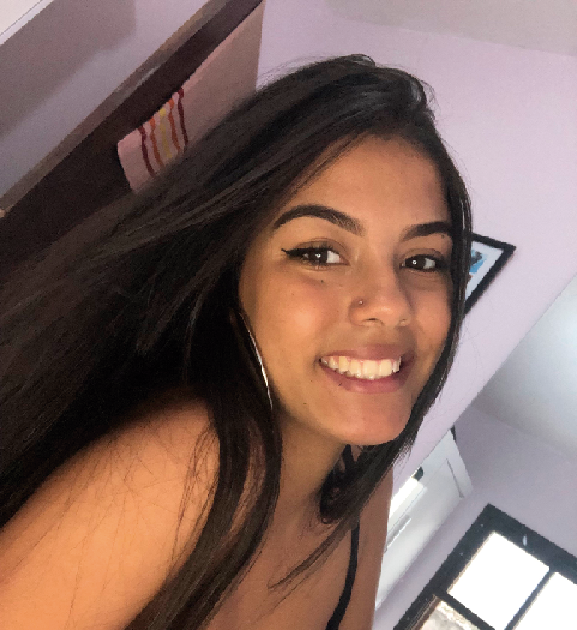
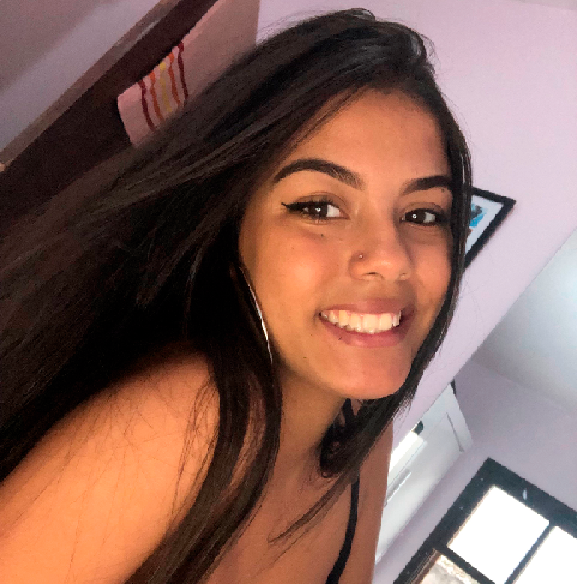
arrumei as fotos esticadas e faltaa so colocar as redes socias de todos corretamentre e por target="_blank"

diff --git a/public/css/styles.css b/public/css/styles.css
@@ -88,8 +88,8 @@ h2 {
     margin: 5% auto;
     padding: 20px;
     border-radius: 5px ;
-    width: 75% ;
-    height: 89%;
+    width: 70% ;
+    height: 80%;
     display: flex;
     flex-direction: column;
     align-items: center;
